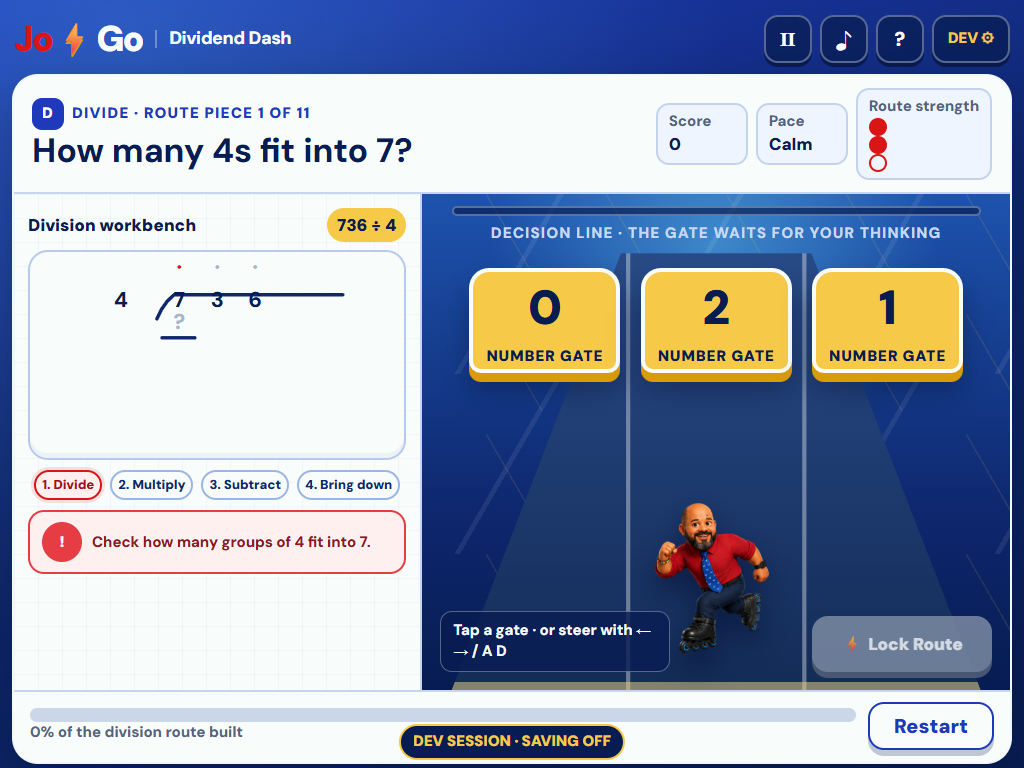
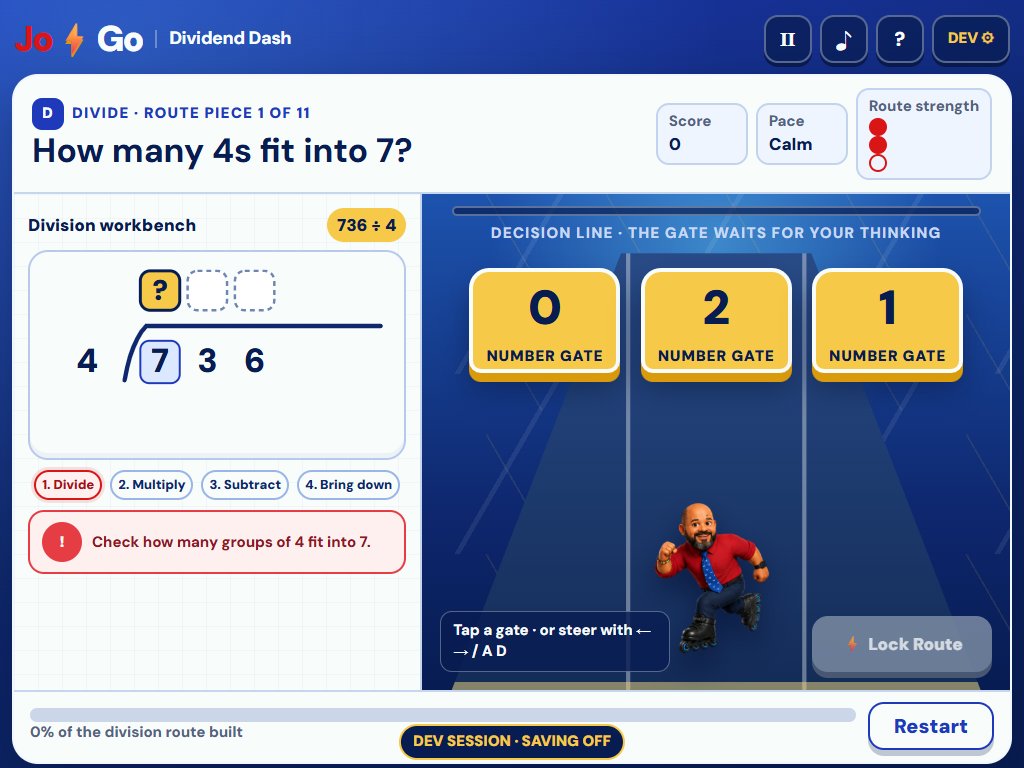
Repair Dividend Dash tableau legibility

Changed region(s): [[0.0625, 0.3438, 0.375, 0.5]]

diff --git a/public/games/dividend-dash/src/app.js b/public/games/dividend-dash/src/app.js
@@ -100,44 +100,65 @@ function tableauSvg() {
 
   const quotient = state.route.cycles.map((cycle) => {
     const values = completedByCycle.get(cycle.cycleIndex) || {};
-    const value = values.divide ? cycle.quotientDigit : "·";
-    const className = current?.kind === "divide" && current.cycleIndex === cycle.cycleIndex ? "active-value" : values.divide ? "" : "ghost";
-    return `<text class="${className}" x="${geometry.digitXs[cycle.digitIndex]}" y="${geometry.quotientY}">${value}</text>`;
+    const isComplete = Boolean(values.divide);
+    const isActive = current?.kind === "divide" && current.cycleIndex === cycle.cycleIndex;
+    const x = geometry.digitXs[cycle.digitIndex];
+    const slotClass = isActive ? "is-active" : isComplete ? "is-complete" : "is-waiting";
+    const value = isComplete ? cycle.quotientDigit : isActive ? "?" : "";
+    return `
+      <rect class="quotient-slot ${slotClass}" data-role="quotient-slot" x="${x - geometry.quotientSlotWidth / 2}" y="${geometry.quotientSlotY}" width="${geometry.quotientSlotWidth}" height="${geometry.quotientSlotHeight}" rx="10" />
+      ${value !== "" ? `<text class="quotient-value ${isActive ? "is-active" : ""}" data-role="quotient-value" x="${x}" y="${geometry.quotientY}">${value}</text>` : ""}`;
   }).join("");
 
-  const dividendDigits = state.route.digits.map((digit, index) => `<text x="${geometry.digitXs[index]}" y="${geometry.dividendY}">${digit}</text>`).join("");
+  const activeCycleDigitIndex = current?.cycleIndex !== undefined ? state.route.cycles[current.cycleIndex]?.digitIndex : -1;
+  const activeDigitIndex = current?.kind === "bring-down" ? activeCycleDigitIndex + 1 : activeCycleDigitIndex;
+  const dividendDigits = state.route.digits.map((digit, index) => {
+    const x = geometry.digitXs[index];
+    const isActive = index === activeDigitIndex;
+    return `${isActive ? `<rect class="active-digit-cell" x="${x - 20}" y="${geometry.dividendY - 32}" width="40" height="43" rx="9" />` : ""}<text class="math-number dividend-digit ${isActive ? "is-active" : ""}" data-role="dividend-digit" data-index="${index}" x="${x}" y="${geometry.dividendY}">${digit}</text>`;
+  }).join("");
+  let visibleContentBottom = geometry.dividendY + 18;
   const rows = state.route.cycles.map((cycle, cycleIndex) => {
     const values = completedByCycle.get(cycleIndex) || {};
     const y = geometry.cycleRows[cycleIndex];
     const endX = geometry.digitXs[cycle.digitIndex];
-    const product = values.multiply ? cycle.product : "";
-    const remainder = values.subtract ? cycle.remainder : "";
+    const hasProduct = Boolean(values.multiply);
+    const hasRemainder = Boolean(values.subtract);
     const bring = values["bring-down"];
-    const productClass = current?.kind === "multiply" && current.cycleIndex === cycleIndex ? "active-value" : "";
-    const remainderClass = current?.kind === "subtract" && current.cycleIndex === cycleIndex ? "active-value" : "";
+    const isCurrentCycle = current?.cycleIndex === cycleIndex;
+    const isMultiply = isCurrentCycle && current.kind === "multiply";
+    const isSubtract = isCurrentCycle && current.kind === "subtract";
+    const isBringDown = isCurrentCycle && current.kind === "bring-down";
     let row = "";
-    if (values.multiply || current?.cycleIndex === cycleIndex) {
-      row += `<text class="${product ? productClass : "ghost"}" x="${endX}" y="${y}">${product || "?"}</text>`;
+    if (hasProduct || isMultiply) {
+      visibleContentBottom = Math.max(visibleContentBottom, y + 18);
+      if (isMultiply) row += `<rect class="answer-cell" x="${endX - 24}" y="${y - 31}" width="48" height="40" rx="9" />`;
+      row += `<text class="math-number row-value ${isMultiply ? "is-active" : ""}" data-role="product-value" x="${endX}" y="${y}">${hasProduct ? cycle.product : "?"}</text>`;
       row += `<path class="math-line" d="M ${Math.max(106, endX - 54)} ${y + 10} L ${endX + 18} ${y + 10}" />`;
     }
-    if (values.subtract || current?.kind === "subtract" && current.cycleIndex === cycleIndex) {
-      row += `<text class="${remainder ? remainderClass : "ghost"}" x="${endX}" y="${y + 38}">${values.subtract ? remainder : "?"}</text>`;
+    if (hasRemainder || isSubtract) {
+      visibleContentBottom = Math.max(visibleContentBottom, y + 58);
+      if (isSubtract) row += `<rect class="answer-cell" x="${endX - 24}" y="${y + 15}" width="48" height="40" rx="9" />`;
+      row += `<text class="math-number row-value ${isSubtract ? "is-active" : ""}" data-role="remainder-value" x="${endX}" y="${y + 46}">${hasRemainder ? cycle.remainder : "?"}</text>`;
     }
-    if (bring) {
+    if (bring || isBringDown) {
+      visibleContentBottom = Math.max(visibleContentBottom, y + 58);
       const nextX = geometry.digitXs[cycle.digitIndex + 1];
-      row += `<path class="bring-arrow" d="M ${nextX} ${geometry.dividendY + 10} Q ${nextX + 18} ${y + 18} ${nextX} ${y + 38}" />`;
-      row += `<text class="active-value" x="${nextX}" y="${y + 38}">${bring.answer}</text>`;
+      row += `<path class="bring-arrow" d="M ${nextX} ${geometry.dividendY + 13} Q ${nextX + 20} ${y + 18} ${nextX} ${y + 46}" />`;
+      if (isBringDown) row += `<rect class="answer-cell" x="${nextX - 27}" y="${y + 15}" width="54" height="40" rx="9" />`;
+      row += `<text class="math-number row-value ${isBringDown ? "is-active" : ""}" data-role="bring-value" x="${nextX}" y="${y + 46}">${bring ? bring.answer : "?"}</text>`;
     }
     return row;
   }).join("");
+  const visibleHeight = Math.min(geometry.height, Math.max(190, visibleContentBottom + 16));
 
   return `
-    <svg class="tableau" viewBox="0 0 ${geometry.width} ${geometry.height}" role="img" aria-label="Long division working for ${state.route.problem.dividend} divided by ${state.route.problem.divisor}">
+    <svg class="tableau" viewBox="0 0 ${geometry.width} ${visibleHeight}" role="img" aria-label="Long division working for ${state.route.problem.dividend} divided by ${state.route.problem.divisor}">
       <defs>
         <marker id="arrowhead" markerWidth="7" markerHeight="7" refX="5" refY="3.5" orient="auto"><path d="M0,0 L0,7 L7,3.5 z" fill="var(--jogo-red)" /></marker>
       </defs>
-      <text x="${geometry.divisorX}" y="${geometry.dividendY}">${state.route.problem.divisor}</text>
-      <path class="bracket" d="M ${geometry.bracketX} 80 Q ${geometry.bracketX + 7} 62 ${geometry.bracketX + 20} 52 L ${geometry.width - 24} 52" />
+      <text class="math-number divisor-value" data-role="divisor" x="${geometry.divisorX}" y="${geometry.dividendY}">${state.route.problem.divisor}</text>
+      <path class="bracket" data-role="division-bracket" data-bar-y="${geometry.bracketTopY}" d="M ${geometry.bracketX} ${geometry.dividendY + 8} Q ${geometry.bracketX + 7} ${geometry.bracketTopY + 15} ${geometry.bracketX + 22} ${geometry.bracketTopY} L ${geometry.width - 24} ${geometry.bracketTopY}" />
       ${quotient}
       ${dividendDigits}
       ${rows}

diff --git a/public/games/dividend-dash/src/engine.js b/public/games/dividend-dash/src/engine.js
@@ -256,17 +256,21 @@ export function completeThrough(state, targetIndex) {
 }
 
 export function getTableauGeometry(state) {
-  const digitStartX = 126;
-  const digitGap = 44;
+  const digitStartX = 132;
+  const digitGap = 48;
   return {
-    width: 340,
-    height: 244,
+    width: 380,
+    height: 320,
     divisorX: 58,
-    bracketX: 100,
-    dividendY: 66,
-    quotientY: 28,
+    bracketX: 96,
+    bracketTopY: 65,
+    dividendY: 112,
+    quotientY: 39,
+    quotientSlotY: 9,
+    quotientSlotWidth: 40,
+    quotientSlotHeight: 40,
     digitXs: state.route.digits.map((_, index) => digitStartX + index * digitGap),
-    cycleRows: state.route.cycles.map((_, index) => 92 + index * 48),
+    cycleRows: state.route.cycles.map((_, index) => 158 + index * 52),
   };
 }
 
@@ -275,12 +279,14 @@ export function validateTableauGeometry(state) {
   const errors = [];
   if (geometry.digitXs.length !== state.route.digits.length) errors.push("Every dividend digit needs one x-position.");
   geometry.digitXs.forEach((x, index) => {
-    if (index > 0 && x - geometry.digitXs[index - 1] !== 44) errors.push("Dividend digit spacing must remain equal.");
+    if (index > 0 && x - geometry.digitXs[index - 1] !== 48) errors.push("Dividend digit spacing must remain equal.");
   });
   state.route.cycles.forEach((cycle, index) => {
     if (geometry.digitXs[cycle.digitIndex] === undefined) errors.push(`Cycle ${index} quotient has no dividend anchor.`);
   });
   if (!(geometry.bracketX < geometry.digitXs[0])) errors.push("Division bracket must sit before dividend digits.");
+  if (geometry.quotientSlotY + geometry.quotientSlotHeight > geometry.bracketTopY - 12) errors.push("Quotient slots must not crowd the division bar.");
+  if (geometry.dividendY - geometry.bracketTopY < 40) errors.push("Dividend digits must remain clearly below the division bar.");
   return errors;
 }
 

diff --git a/public/games/dividend-dash/styles.css b/public/games/dividend-dash/styles.css
@@ -553,24 +553,63 @@ a:focus-visible {
 }
 
 .tableau {
-  width: min(100%, 420px);
+  width: min(100%, 460px);
   max-height: 270px;
 }
 
 .tableau text {
   fill: var(--power-blue-deep);
   font-family: var(--font-ui);
-  font-size: 25px;
-  font-weight: 800;
+  font-size: 30px;
+  font-weight: 900;
   text-anchor: middle;
 }
 
-.tableau .ghost {
-  fill: #a7b5ca;
+.tableau .math-number {
+  font-size: 34px;
+  font-variant-numeric: tabular-nums;
 }
 
-.tableau .active-value {
-  fill: var(--jogo-red);
+.tableau .quotient-slot {
+  fill: #ffffff;
+  stroke: #6f86b2;
+  stroke-width: 2.5;
+}
+
+.tableau .quotient-slot.is-waiting {
+  stroke-dasharray: 5 4;
+}
+
+.tableau .quotient-slot.is-active,
+.tableau .answer-cell {
+  fill: var(--lightning-yellow);
+  stroke: var(--power-blue-deep);
+  stroke-width: 3;
+}
+
+.tableau .quotient-slot.is-complete {
+  fill: #dce8ff;
+  stroke: var(--power-blue);
+}
+
+.tableau .quotient-value {
+  font-size: 29px;
+  font-weight: 950;
+}
+
+.tableau .quotient-value.is-active,
+.tableau .row-value.is-active {
+  fill: var(--power-blue-deep);
+}
+
+.tableau .active-digit-cell {
+  fill: #dce8ff;
+  stroke: var(--power-blue);
+  stroke-width: 2;
+}
+
+.tableau .dividend-digit.is-active {
+  fill: var(--power-blue-deep);
 }
 
 .tableau .math-line,
@@ -578,7 +617,7 @@ a:focus-visible {
   fill: none;
   stroke: var(--power-blue-dark);
   stroke-linecap: round;
-  stroke-width: 4;
+  stroke-width: 4.5;
 }
 
 .tableau .bring-arrow {

diff --git a/memory/session_handoffs/CURRENT_SESSION_HANDOFF.md b/memory/session_handoffs/CURRENT_SESSION_HANDOFF.md
@@ -18,6 +18,8 @@ Repository selected: `D:\Users\bajos\OneDrive - Merrifield Prep & College\2026_C
 - Built the static game under `public/games/dividend-dash/` with local assets, touch and keyboard input, pause/restart, three paces, progressive repair clues, results evidence, and no-save DEV state jumps.
 - Added Dividend Dash to Studio as `testing`, `public: false`; it is not approved for public catalogue listing yet.
 - Added shared visual-check scripts to `package.json` and a reusable browser gauntlet at `qa/browser-qa.mjs`.
+- After Mr Jo rejected the initial tableau as unreadable, rebuilt its visual hierarchy: visible quotient slots replaced faint dots, active unknowns use strong navy/yellow contrast, the division bar no longer crowds glyphs, only the current operation renders an unknown, and the viewport expands revealed working instead of shrinking the opening maths into empty space.
+- Strengthened both `jogo-game-builder` skill copies and the educational geometry standard with a mandatory mathematical-legibility close-up gate.
 
 ## Key files for next session
 
@@ -68,6 +70,7 @@ Verified results:
 - 1024×768 landscape: no horizontal or vertical page overflow;
 - 820×1180 portrait: no horizontal overflow;
 - DEV state jumps do not mutate learner progress.
+- Tableau close-ups `02a` and `06a` were inspected at the target render size; browser assertions now reject faint active unknowns, misplaced operation unknowns, quotient/bar crowding, bar/dividend crowding, and incorrect bring-down digit focus.
 
 Evidence screenshots `00` through `10` are under `public/games/dividend-dash/quality/gauntlet/evidence/`.
 

diff --git a/public/games/dividend-dash/QA.md b/public/games/dividend-dash/QA.md
@@ -31,9 +31,12 @@ Evidence: `qa/browser-qa.mjs` and screenshots `02` through `08` in `quality/gaun
 ## Educational geometry
 
 - [x] Every dividend digit has one deterministic x-coordinate.
-- [x] Equal place-value spacing remains 44 SVG units.
+- [x] Equal place-value spacing remains 48 SVG units.
 - [x] Quotient digits anchor above the dividend digit completing that working number.
 - [x] The division bracket remains before the first dividend digit.
+- [x] Quotient slots retain at least 12 SVG units of clearance above the division bar.
+- [x] Rendered dividend glyphs retain at least 8 SVG units of clearance below the division bar.
+- [x] Divide shows its unknown only in the quotient slot; later operation rows appear only when active or completed.
 - [x] All six problems pass `validateTableauGeometry()`.
 
 See `qa/GEOMETRY_TEST.md`.
@@ -45,7 +48,10 @@ See `qa/GEOMETRY_TEST.md`.
 - [x] Active play, feedback, controls, footer, and results fit at 1024×768 with no horizontal or vertical page overflow.
 - [x] 820×1180 portrait has no horizontal overflow and keeps gates and Lock Route reachable.
 - [x] Route-strength indicators render as three circles, not collapsed spans.
+- [x] Tight tableau captures confirm readable numbers, visible answer slots, dark active unknowns, and correct bring-down focus.
 - [x] No console errors, page errors, failed requests, or HTTP error responses.
+
+Evidence: `02a-tableau-legibility-closeup.png` and `06a-bring-down-tableau-closeup.png` in `quality/gauntlet/evidence/`.
 
 ## Play-through and transfer
 

diff --git a/.agents/skills/jogo-game-builder/SKILL.md b/.agents/skills/jogo-game-builder/SKILL.md
@@ -152,6 +152,17 @@ Run QA in this order:
 
 Do not claim "QA passed" merely because code executes.
 
+### Mathematical legibility hard gate
+
+Before a procedural maths visual can pass Visual QA:
+
+- capture and inspect a tight screenshot of the actual instrument or working area at the target viewport;
+- render unknowns and active values at normal text contrast, never as pale ghost marks or tiny dots;
+- keep answer slots visibly bounded and large enough to read at the rendered size;
+- verify with deterministic geometry or browser bounds that rules, brackets, ticks, arrows and labels do not crowd or cross number glyphs;
+- ensure each operation shows only the unknown that the learner is currently solving;
+- fail the gate if the current mathematical state cannot be understood immediately from the visual alone.
+
 ## Educational geometry is functional code
 
 Rulers, dials, scales, fraction bars, clocks, number lines, graphs, maps and similar visuals are not decoration. Their geometry teaches.

diff --git a/jogo-game-builder/skills/jogo-game-builder/SKILL.md b/jogo-game-builder/skills/jogo-game-builder/SKILL.md
@@ -152,6 +152,17 @@ Run QA in this order:
 
 Do not claim "QA passed" merely because code executes.
 
+### Mathematical legibility hard gate
+
+Before a procedural maths visual can pass Visual QA:
+
+- capture and inspect a tight screenshot of the actual instrument or working area at the target viewport;
+- render unknowns and active values at normal text contrast, never as pale ghost marks or tiny dots;
+- keep answer slots visibly bounded and large enough to read at the rendered size;
+- verify with deterministic geometry or browser bounds that rules, brackets, ticks, arrows and labels do not crowd or cross number glyphs;
+- ensure each operation shows only the unknown that the learner is currently solving;
+- fail the gate if the current mathematical state cannot be understood immediately from the visual alone.
+
 ## Educational geometry is functional code
 
 Rulers, dials, scales, fraction bars, clocks, number lines, graphs, maps and similar visuals are not decoration. Their geometry teaches.

diff --git a/jogo-game-builder/standards/JOGO_EDUCATIONAL_GEOMETRY_RULES.md b/jogo-game-builder/standards/JOGO_EDUCATIONAL_GEOMETRY_RULES.md
@@ -58,3 +58,10 @@ A mathematically correct answer engine with an ambiguous diagram is a broken gam
 ## QA requirement
 
 For every procedural educational visual, write a small invariant test or deterministic QA mode that can render representative edge cases.
+
+Also capture a close-up at the real target viewport and fail QA when:
+
+- an active number or unknown uses low-contrast placeholder styling;
+- a line, bracket, arrow or decorative mark touches or crosses a number glyph;
+- answer positions are represented only by faint dots or other ambiguous marks;
+- the visual shows an unknown for an operation the learner is not currently solving.
